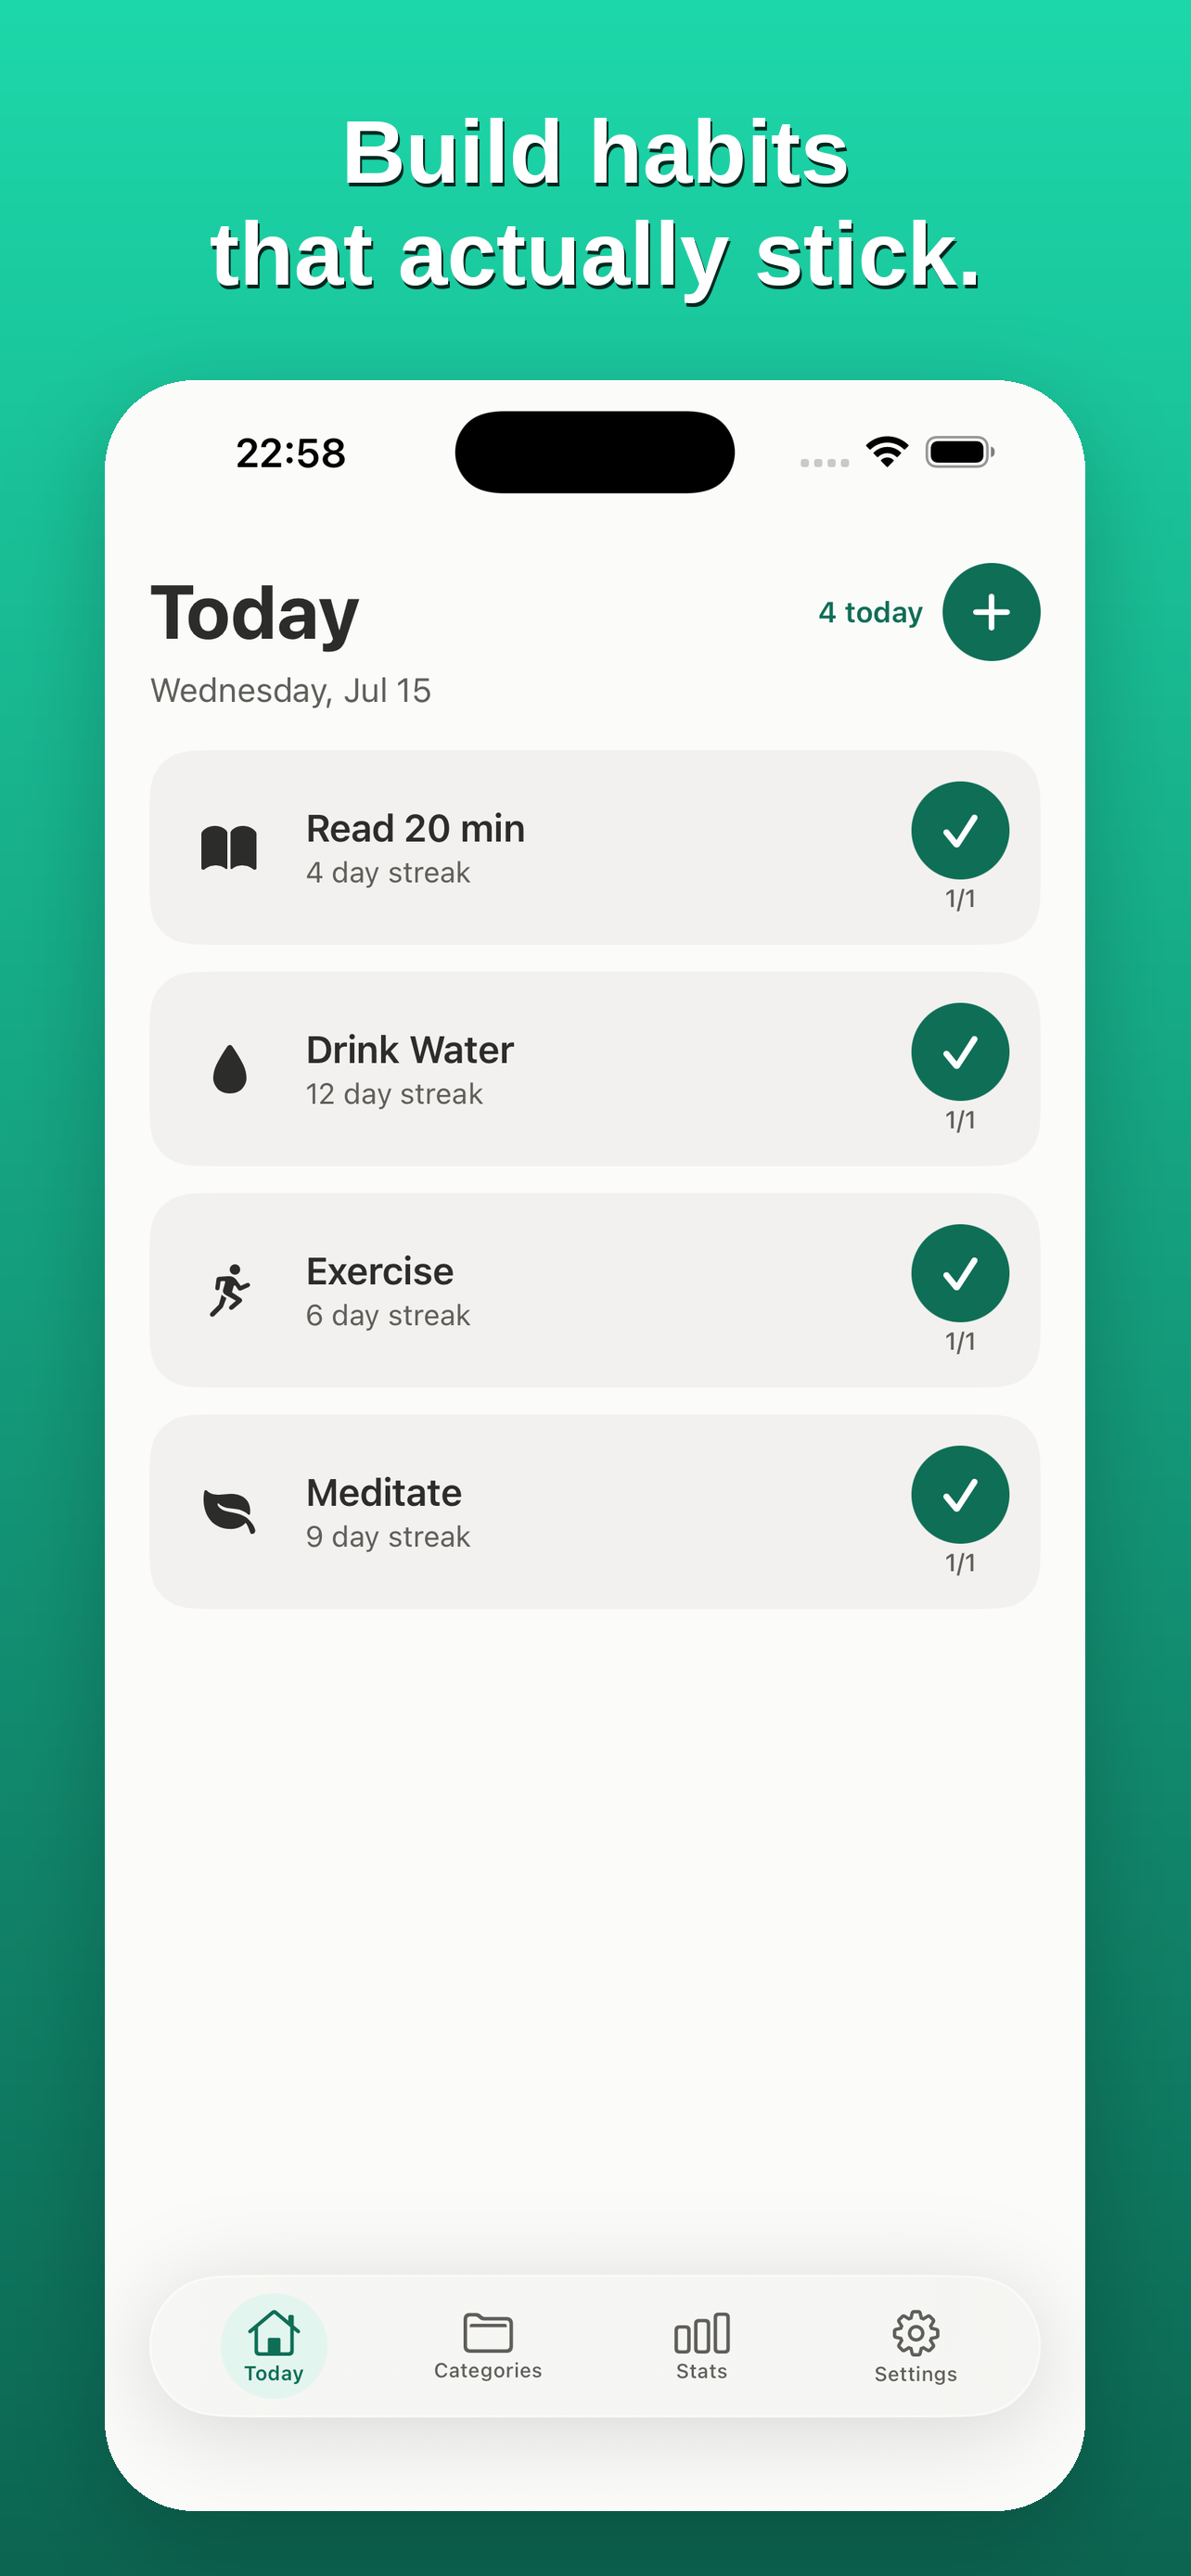
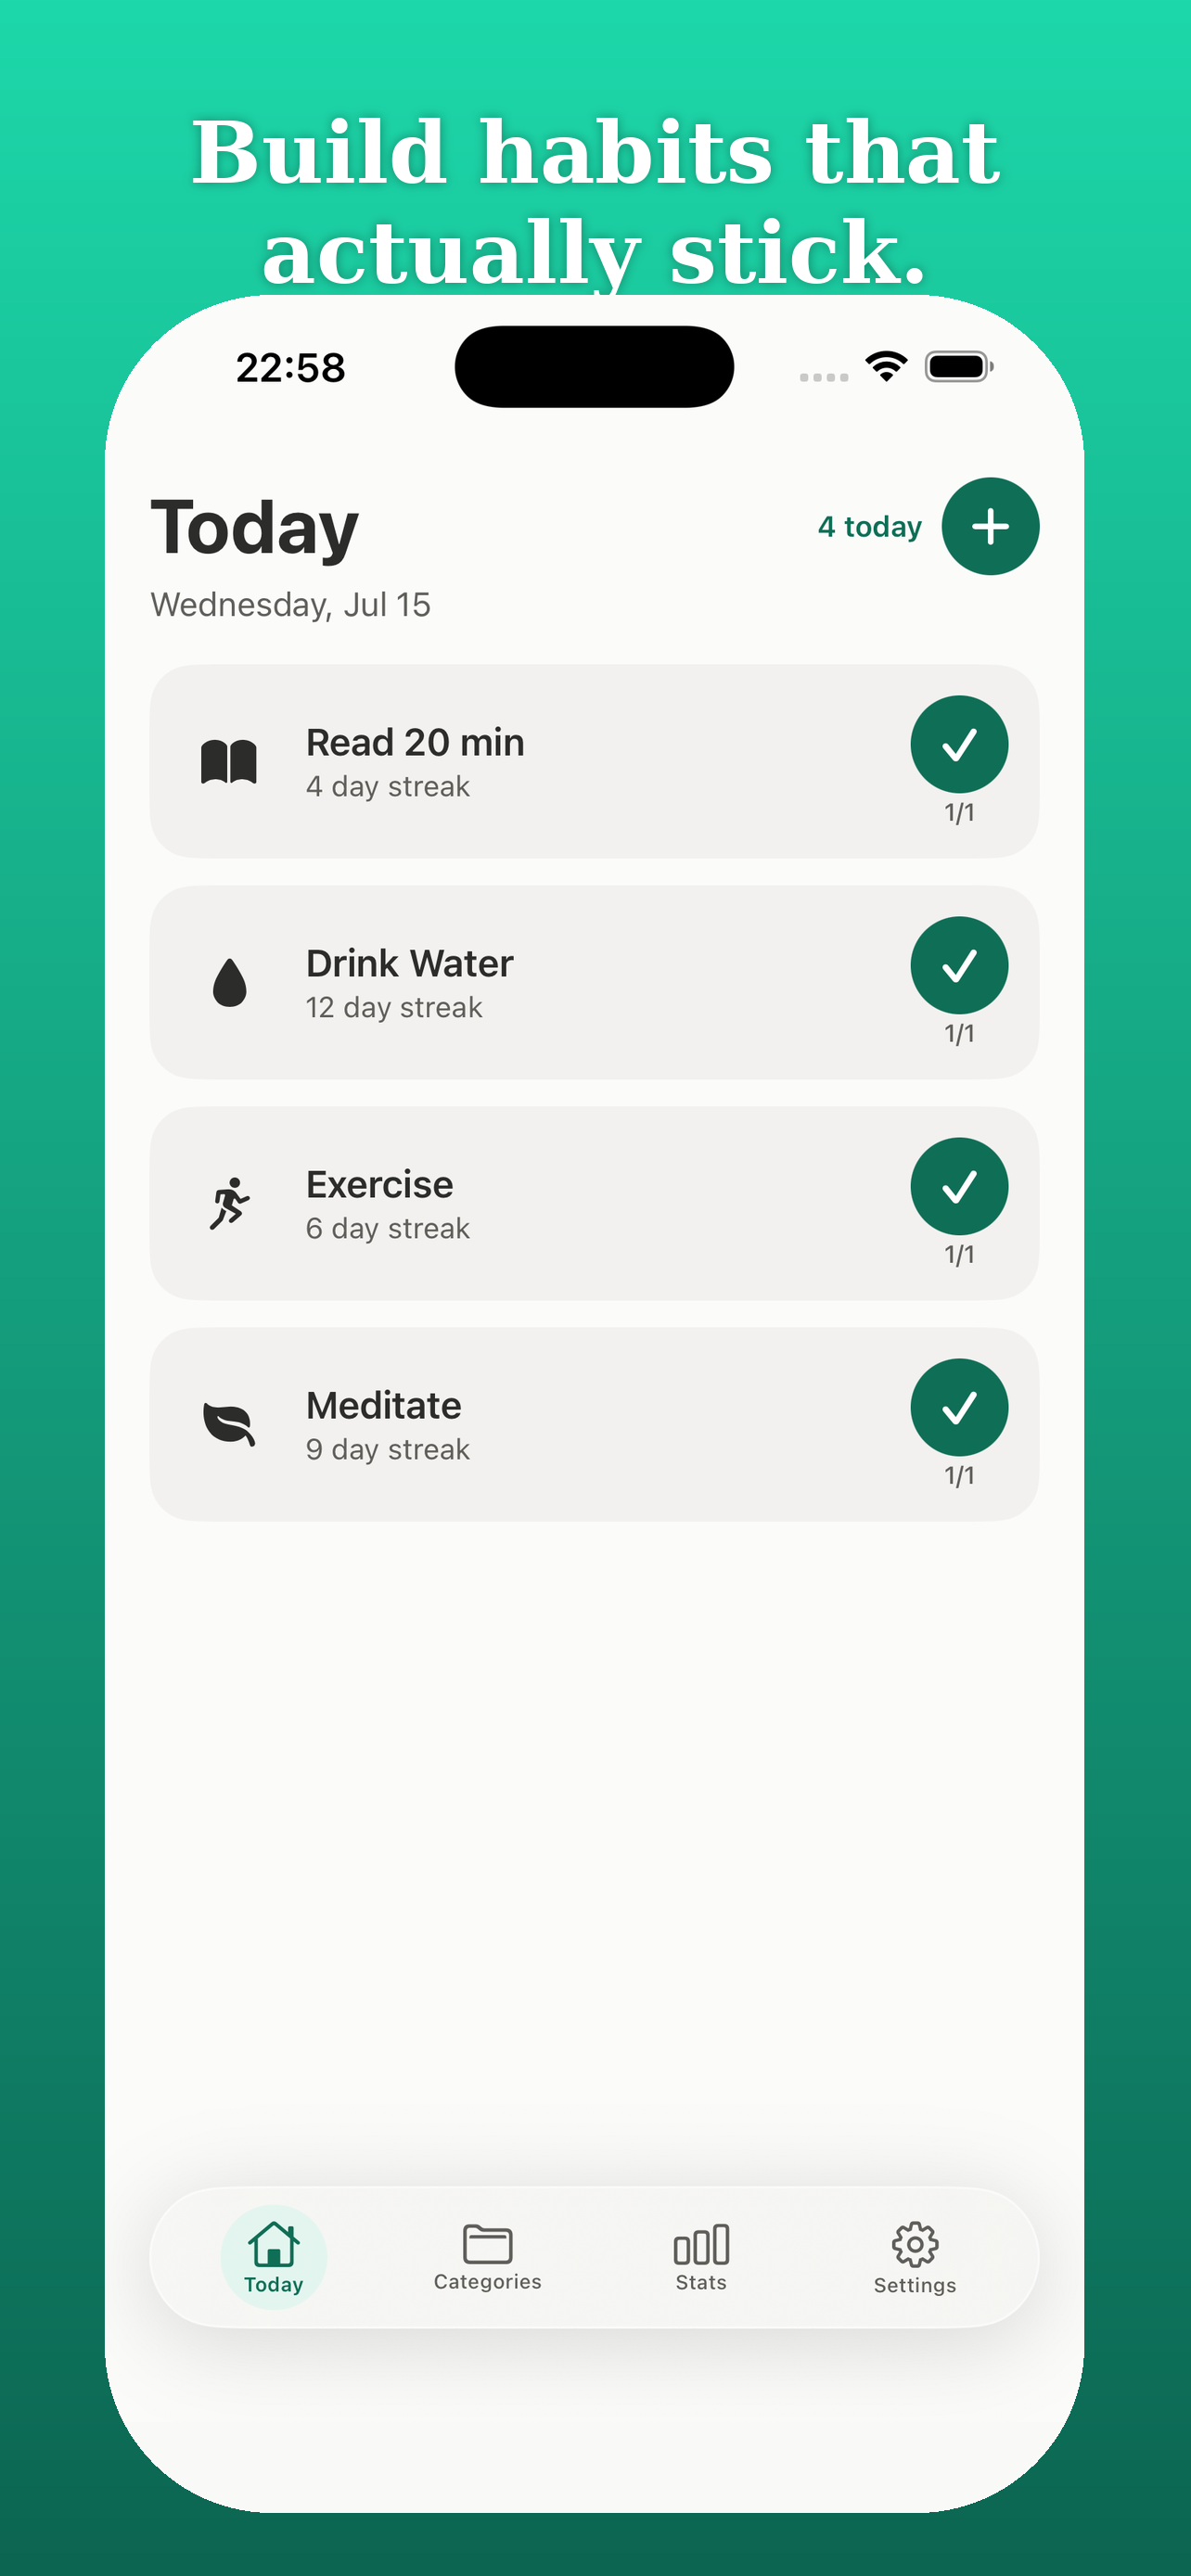
Add files via upload

diff --git a/index.html b/index.html
@@ -3,8 +3,8 @@
 <head>
 <meta charset="UTF-8">
 <meta name="viewport" content="width=device-width, initial-scale=1.0">
-<title>Steadfast Streaks — Buy Once, Own It Forever</title>
-<meta name="description" content="Steadfast Streaks is a habit tracker for iOS you buy once. No subscription, no ads, no account. All data stays on your device.">
+<title>Keepdaily — Buy Once, Own It Forever</title>
+<meta name="description" content="Keepdaily is a habit tracker for iOS you buy once. No subscription, no ads, no account. All data stays on your device.">
 <style>
   :root {
     --bg: #0b0b0f;
@@ -128,10 +128,10 @@
 <body>
 
 <header>
-  <img class="icon" src="AppIcon-1024.png" alt="Steadfast Streaks app icon">
-  <h1>Steadfast Streaks</h1>
+  <img class="icon" src="AppIcon-1024.png" alt="Keepdaily app icon">
+  <h1>Keepdaily</h1>
   <p class="tagline">Buy once, own it forever. No habit tracker subscription — ever.</p>
-  <a class="cta" href="https://apps.apple.com/us/app/steadfast-streaks/id6788766063">Download on the App Store</a>
+  <a class="cta" href="https://apps.apple.com/us/app/keepdaily/id6788766063">Download on the App Store</a>
 </header>
 
 <section class="features">
@@ -152,7 +152,7 @@
 <section class="screenshots">
   <h2>A clean way to build consistency</h2>
   <div class="shots">
-    <img src="01_today.png" alt="Today view showing daily habits in Steadfast Streaks">
+    <img src="01_today.png" alt="Today view showing daily habits in Keepdaily">
     <img src="04_stats.png" alt="Stats view showing completion rate and streak trends">
     <img src="03_categories.png" alt="Categories and folders view organizing habits">
   </div>
@@ -162,12 +162,12 @@
   <div class="price-card">
     <h2>Free to try, buy once to unlock</h2>
     <p>Start with a free tier, then pay a single one-time price to unlock unlimited habits — forever.</p>
-    <a class="cta" href="https://apps.apple.com/us/app/steadfast-streaks/id6788766063">Get Steadfast Streaks</a>
+    <a class="cta" href="https://apps.apple.com/us/app/keepdaily/id6788766063">Get Keepdaily</a>
   </div>
 </section>
 
 <footer>
-  &copy; 2026 Steadfast Streaks. Built solo by Owen.
+  &copy; 2026 Keepdaily. Built solo by Owen.
   &nbsp;·&nbsp;
   <a href="https://zhangwenhao66.github.io/steadfast-streaks-legal/">Privacy Policy</a>
   <div style="margin-top:16px;">